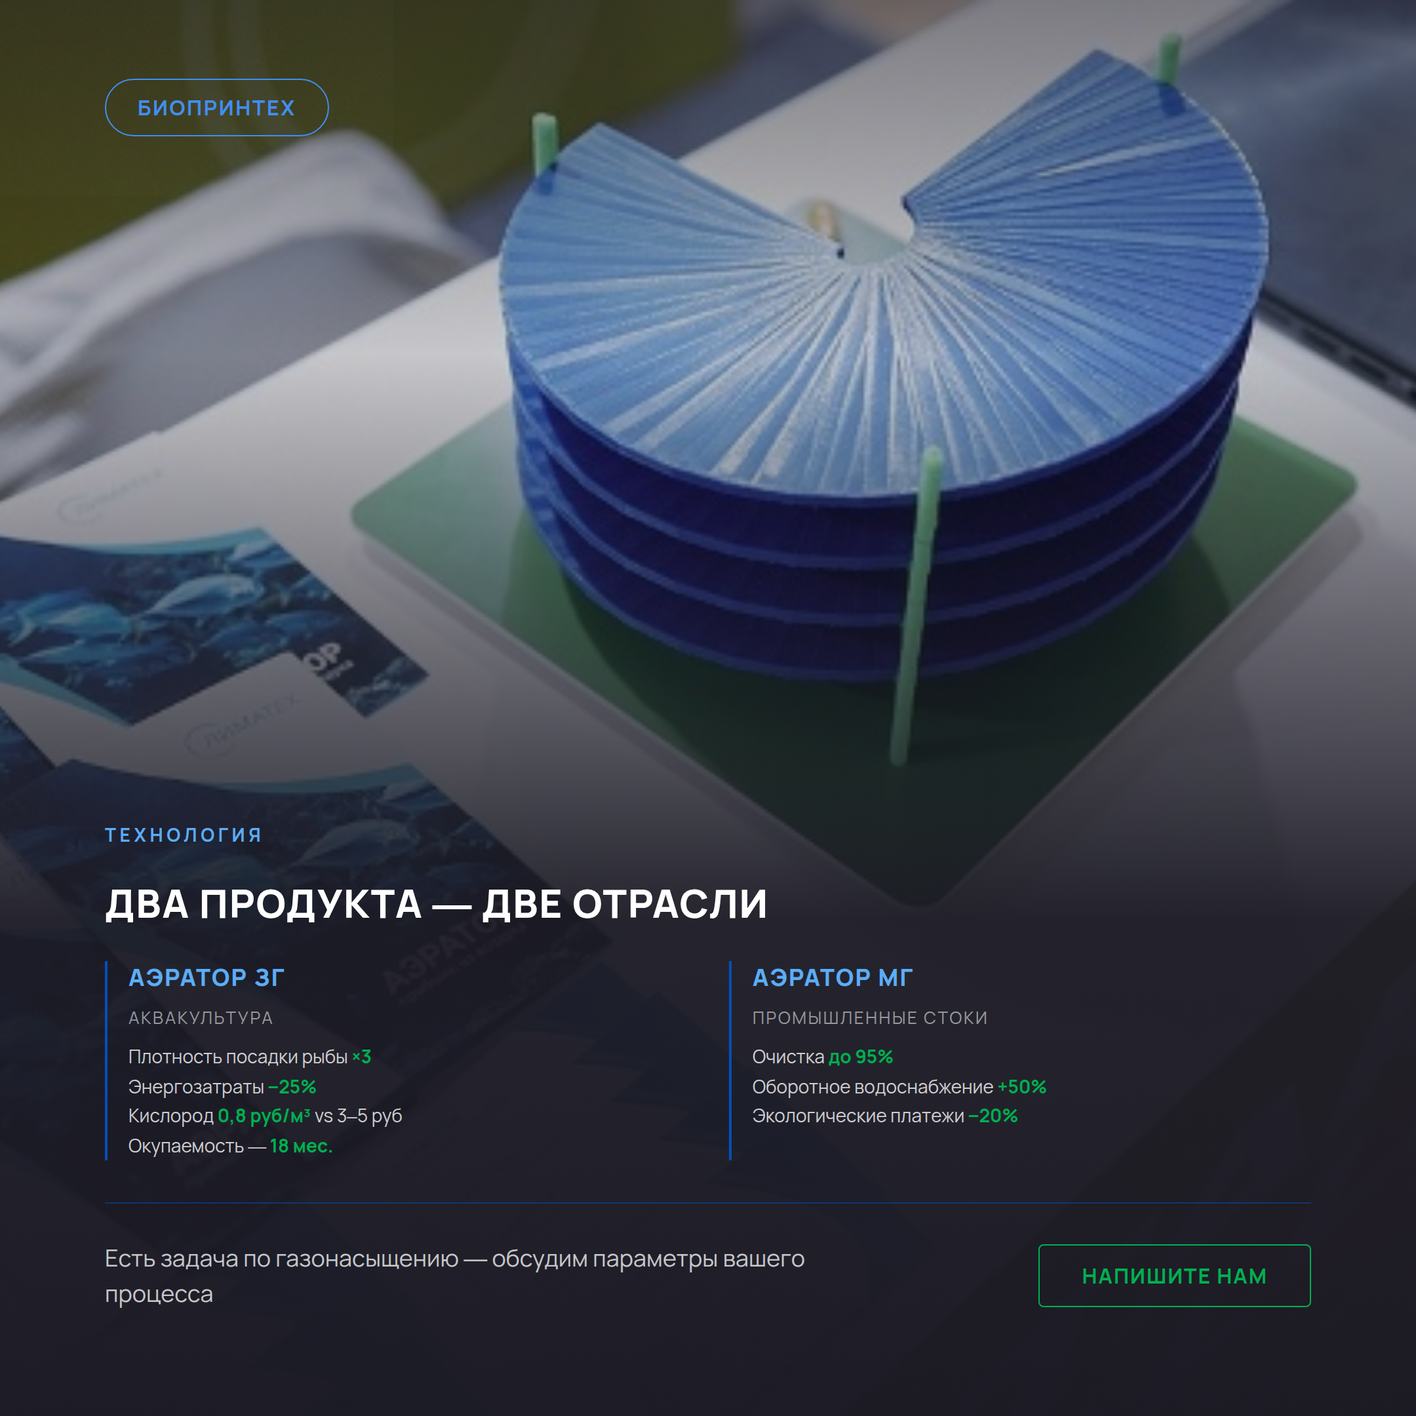
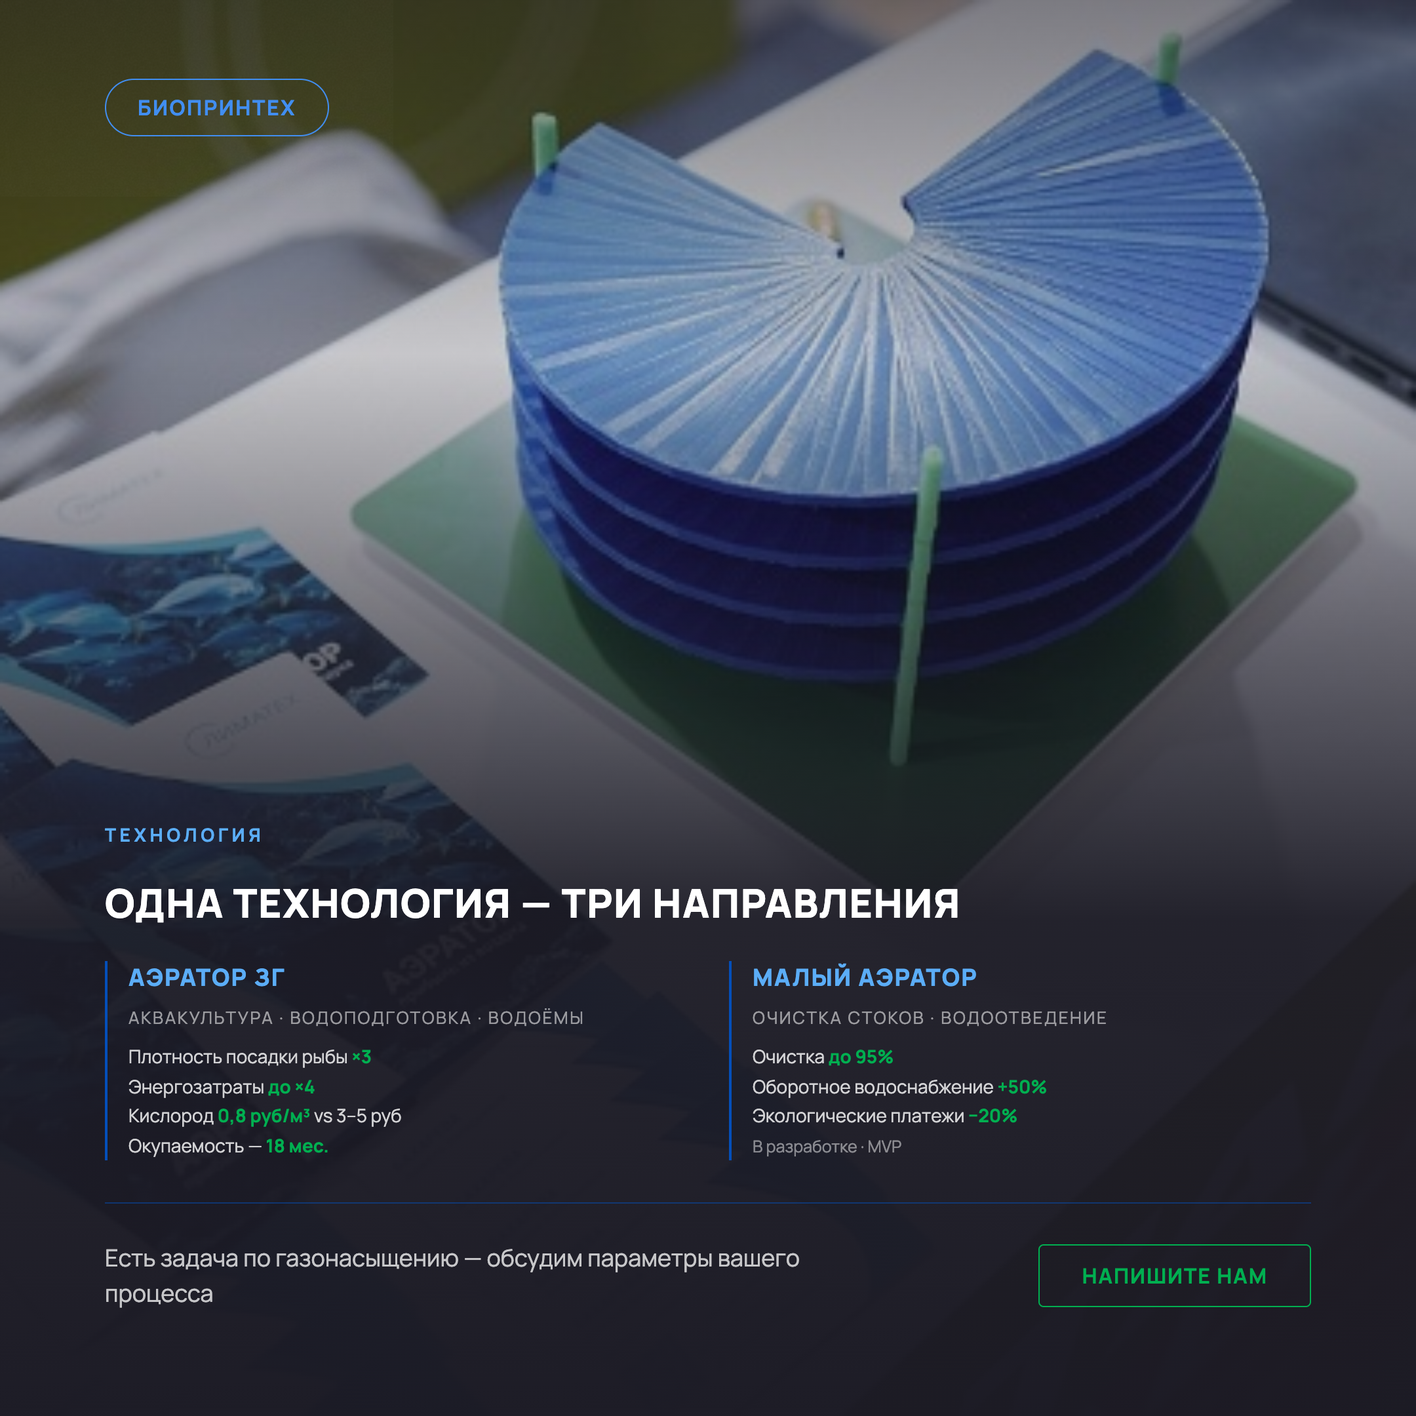
posts: правки #01 по ОС заказчика — Bioprintex_Limatex
- slide_02: роли основателей (CEO + научный руководитель)
- slide_03: макет вместо прототипа, innofood описание
- slide_04: три направления, Малый аэратор MVP, ×4 вместо -25%
- post.md: полное обновление текста ВК-поста
- feedback/2026-04-29-post-01.md: зафиксированы правки

diff --git a/projects/Bioprintex_Limatex/posts/drafts/27_04_2026-1/slide_04.html b/projects/Bioprintex_Limatex/posts/drafts/27_04_2026-1/slide_04.html
@@ -244,29 +244,30 @@
   <div class="text-block">
 
     <div class="section-label">Технология</div>
-    <div class="product-headline">Два продукта — две отрасли</div>
+    <div class="product-headline">Одна технология — три направления</div>
 
     <div class="products">
       <!-- Aerator ZG -->
       <div class="product-card">
         <div class="product-name">Аэратор ЗГ</div>
-        <div class="product-scope">Аквакультура</div>
+        <div class="product-scope">Аквакультура · Водоподготовка · Водоёмы</div>
         <div class="product-stat">
           Плотность посадки рыбы <span class="stat-accent">×3</span><br>
-          Энергозатраты <span class="stat-accent">−25%</span><br>
+          Энергозатраты <span class="stat-accent">до ×4</span><br>
           Кислород <span class="stat-accent">0,8 руб/м³</span> vs 3–5 руб<br>
           Окупаемость — <span class="stat-accent">18 мес.</span>
         </div>
       </div>
 
-      <!-- Aerator MG -->
+      <!-- Малый аэратор (MVP) -->
       <div class="product-card">
-        <div class="product-name">Аэратор МГ</div>
-        <div class="product-scope">Промышленные стоки</div>
+        <div class="product-name">Малый аэратор</div>
+        <div class="product-scope">Очистка стоков · Водоотведение</div>
         <div class="product-stat">
           Очистка <span class="stat-accent">до 95%</span><br>
           Оборотное водоснабжение <span class="stat-accent">+50%</span><br>
-          Экологические платежи <span class="stat-accent">−20%</span>
+          Экологические платежи <span class="stat-accent">−20%</span><br>
+          <span style="opacity:0.6;font-size:0.9em">В разработке · MVP</span>
         </div>
       </div>
     </div>

diff --git a/projects/Bioprintex_Limatex/posts/drafts/27_04_2026-1/slide_03.html b/projects/Bioprintex_Limatex/posts/drafts/27_04_2026-1/slide_03.html
@@ -250,7 +250,7 @@
         <path d="M22 26 C22 26 10 34 10 40 H34 C34 34 22 26 22 26Z" stroke="#5BADF7" stroke-width="1.5" fill="none" stroke-linejoin="round"/>
       </svg>
       <div class="achievement-number blue">STARTUP<br>VILLAGE</div>
-      <div class="achievement-label">Представили прототип<br>аэратора экспертному сообществу</div>
+      <div class="achievement-label">Представили макет<br>аэратора экспертному сообществу</div>
       <div class="achievement-sublabel">Международный форум</div>
     </div>
 
@@ -263,8 +263,8 @@
         <path d="M14 8 V 4 M30 8 V 4" stroke="#5BADF7" stroke-width="1.5" stroke-linecap="round"/>
       </svg>
       <div class="achievement-number blue">innofood</div>
-      <div class="achievement-label">Лауреаты конференции<br>благодарственное письмо</div>
-      <div class="achievement-sublabel">Инновации в пищевой отрасли</div>
+      <div class="achievement-label">Высокая оценка на стартап-питче<br>интерес предприятий пищевой отрасли</div>
+      <div class="achievement-sublabel">Инновации в пищевой отрасли · 2023</div>
     </div>
 
     <!-- Block 4: Страна Возможностей -->

diff --git a/projects/Bioprintex_Limatex/posts/drafts/27_04_2026-1/slide_02.html b/projects/Bioprintex_Limatex/posts/drafts/27_04_2026-1/slide_02.html
@@ -212,14 +212,14 @@
 
     <div class="founder">
       <div class="founder-name">Анжела Бахарева</div>
-      <div class="founder-role">Технолог-учёный · разработка составов газонасыщения</div>
+      <div class="founder-role">Генеральный директор · CEO проекта</div>
     </div>
 
     <div class="separator"></div>
 
     <div class="founder">
       <div class="founder-name">Валерий Бахарев</div>
-      <div class="founder-role">Инженер-конструктор · аппаратная реализация</div>
+      <div class="founder-role">Научный руководитель · основатель</div>
     </div>
 
     <div class="caption">Вместе создали аэратор, который прошёл путь от прототипа до промышленного применения.</div>

diff --git a/projects/Bioprintex_Limatex/posts/drafts/27_04_2026-1/post.md b/projects/Bioprintex_Limatex/posts/drafts/27_04_2026-1/post.md
@@ -12,8 +12,8 @@
 
 ## Слайд 2 — Основатели
 
-Анжела Бахарева — технолог и учёный, разрабатывает составы газонасыщения под конкретные задачи клиента.
-Валерий Бахарев — инженер-конструктор, отвечает за аппаратную реализацию.
+Анжела Бахарева — генеральный директор, CEO проекта.
+Валерий Бахарев — научный руководитель, основатель.
 
 Вместе создали аэратор, который прошёл путь от прототипа до промышленного применения.
 
@@ -22,31 +22,33 @@
 ## Слайд 3 — Достижения
 
 - 🏆 Победитель Акселератора технологических стартапов Сколково (ХМАО-Югра, 2021) — 2 000 000 ₽
-- Участники Startup Village — представили прототип аэратора экспертному сообществу
-- Лауреаты innofood
-- Патентная защита разработок
+- Startup Village — представили макет аэратора экспертному сообществу
+- innofood (2023) — высокая оценка на стартап-питче, интерес предприятий пищевой отрасли
+- «Страна Возможностей» (Таврида·Арт) — лауреаты конкурса, нац. экол. инициатива
+- Бронзовая медаль «Зеленая Евразия» (2024) — финал «Водные ресурсы в новых климатических условиях»
+- Патент (2026) — технология управления диффузионным процессом
 
 ---
 
 ## Слайд 4 — Технология + CTA
 
-**Два продукта — две отрасли:**
+**Одна технология — три направления:**
 
-Аэратор ЗГ (аквакультура): плотность посадки рыбы ×3, энергозатраты −25%, стоимость кислорода — 0,8 руб/м³ против стандартных 3–5 руб/м³. Окупаемость — 18 мес.
+Аэратор ЗГ (аквакультура, водоподготовка, водоёмы): плотность посадки рыбы ×3, энергозатраты до ×4, стоимость кислорода — 0,8 руб/м³ против стандартных 3–5 руб/м³. Окупаемость — 18 мес.
 
-Аэратор МГ (промышленные стоки): очистка до 95%, оборотное водоснабжение +50%, снижение экологических платежей −20%.
-
-Если перед вами стоит задача по газонасыщению — напишите нам 📊
+Малый аэратор (MVP, в разработке) — очистка стоков и водоотведение: очистка до 95%, оборотное водоснабжение +50%, снижение экологических платежей −20%.
 
 ---
 
 ## Текст ВК-поста
 
-Биопринтех — это компания «Лиматех», разработчик аэрационных технологий для аквакультуры и промышленных предприятий.
+«Лиматех» — зонтичный бренд для R&D-проектов в области скоростной диффузии газов. Ключевой проект — «Биопринтех», разработчик аэрационных технологий для аквакультуры, восстановления водоёмов и промышленной очистки стоков.
 
-Основатели — технолог Анжела Бахарева и инженер Валерий Бахарев — с 2021 года превращают R&D в готовые аппаратные решения. В том году команда выиграла Акселератор технологических стартапов Сколково (ХМАО-Югра) с грантом 2 000 000 ₽, представила прототип на Startup Village и получила признание на innofood 🔬
+Основатели — генеральный директор Анжела Бахарева и научный руководитель Валерий Бахарев — с 2021 года переводят фундаментальные исследования в готовые аппаратные решения.
 
-Флагманские разработки: аэратор ЗГ снижает себестоимость кислорода в аквакультуре с 3–5 до 0,8 руб/м³ при трёхкратном росте плотности посадки. Аэратор МГ обеспечивает очистку промышленных стоков до 95% и снижает экологические платежи на 20%.
+Ключевые вехи: победа в Акселераторе Сколково (ХМАО-Югра, 2021, грант 2 000 000 ₽), резидентство Технопарка высоких технологий Югры, поддержка ФСИ по программе «Старт-1». Макет аэратора представлен на Startup Village, проект высоко оценён на питче innofood (2023). В 2024 году — бронзовая медаль «Зеленой Евразии» в номинации «Водные ресурсы в новых климатических условиях». В 2026 году получен патент на технологию управления диффузионным процессом 🔬
+
+Флагманское решение — аэратор ЗГ — снижает себестоимость кислорода в аквакультуре с 3–5 до 0,8 руб/м³ при трёхкратном росте плотности посадки и снижении энергозатрат до ×4. Окупаемость — 18 месяцев. Малый аэратор (в разработке) обеспечивает очистку промышленных стоков до 95% и снижает экологические платежи на 20%.
 
 Задача нестандартная — разработаем газонасыщение под ваш процесс: 3–6 мес., патентная защита, снижение CAPEX 30–50%.
 

diff --git a/projects/Bioprintex_Limatex/feedback/2026-04-29-post-01.md b/projects/Bioprintex_Limatex/feedback/2026-04-29-post-01.md
@@ -1,0 +1,34 @@
+# Разбор обратной связи — Bioprintex_Limatex — 29.04.2026
+
+**Оригинальная ОС:** скриншоты слайдов 02/03/04 с пузырями + текст-справка о компании
+
+## Что изменено
+
+### Слайд 02 — Основатели
+- Анжела: "Технолог-учёный · разработка составов..." → **Генеральный директор · CEO проекта**
+- Валерий: "Инженер-конструктор · аппаратная реализация" → **Научный руководитель · основатель**
+- Уточнение: оба — основатели проекта
+
+### Слайд 03 — Достижения
+- Startup Village: "прототип" → **макет**
+- innofood: описание → "Высокая оценка на стартап-питче, интерес предприятий пищевой отрасли · 2023"
+
+### Слайд 04 — Технология
+- Заголовок: "Два продукта — две отрасли" → **Одна технология — три направления**
+- "Аэратор МГ" → **Малый аэратор (MVP, в разработке)**
+- Scope МГ: "Промышленные стоки" → **Очистка стоков · Водоотведение**
+- Scope ЗГ: добавлены "Водоподготовка · Водоёмы"
+- Энергозатраты: "−25%" → **до ×4**
+
+## Уточнённые факты о компании (из справки заказчика)
+- ООО «Лиматех» — зонтичный бренд для R&D-проектов
+- Ключевой проект: «Биопринтех» — технология туннельной гидратации
+- Анжела Бахарева = генеральный директор / CEO
+- Валерий Бахарев = научный руководитель / основатель
+- 2021: Сколково, резидент Технопарка Югры, ФСИ Старт-1
+- 2023: innofood — стартап-питч, интерес пищевой отрасли
+- 2024: бронза «Зеленая Евразия», финал «Водные ресурсы в новых климатических условиях», решение «Биопринтех.АкваОазис»
+- 2026: Патент на технологию управления диффузионным процессом
+- 3 стратегических направления: аквакультура, восстановление водоёмов, очистка/водоотведение
+- Малый аэратор — MVP, конструкция на половине пути, анонс допустим
+- Энергозатраты аэратора ЗГ: ×3,7 (до ×4)
